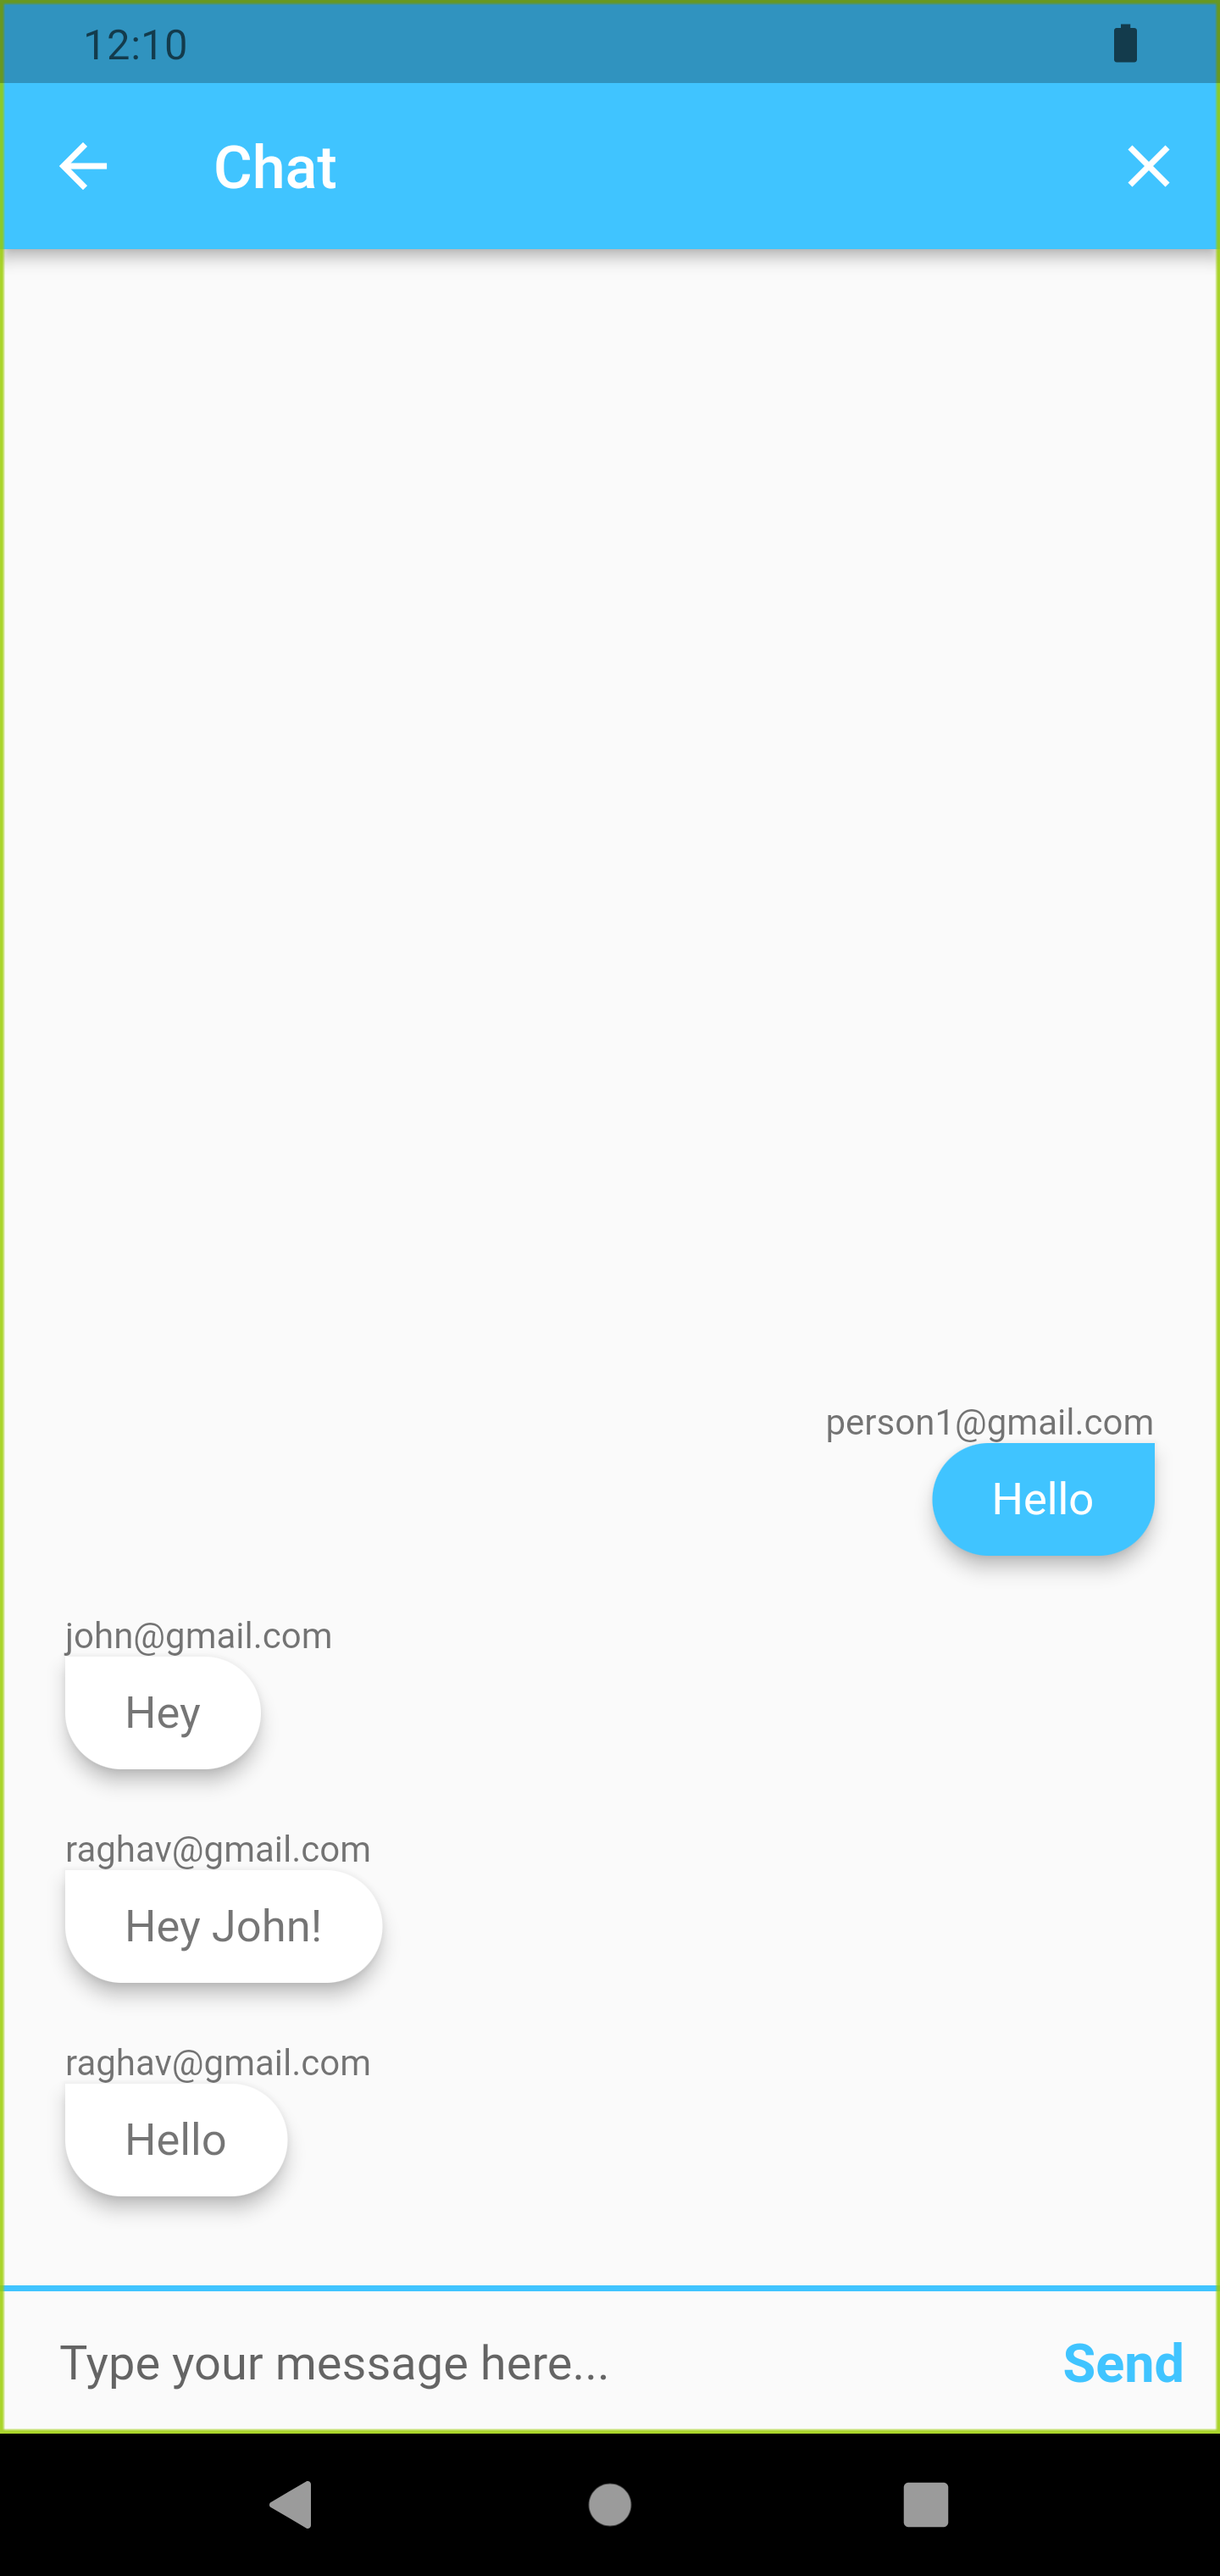
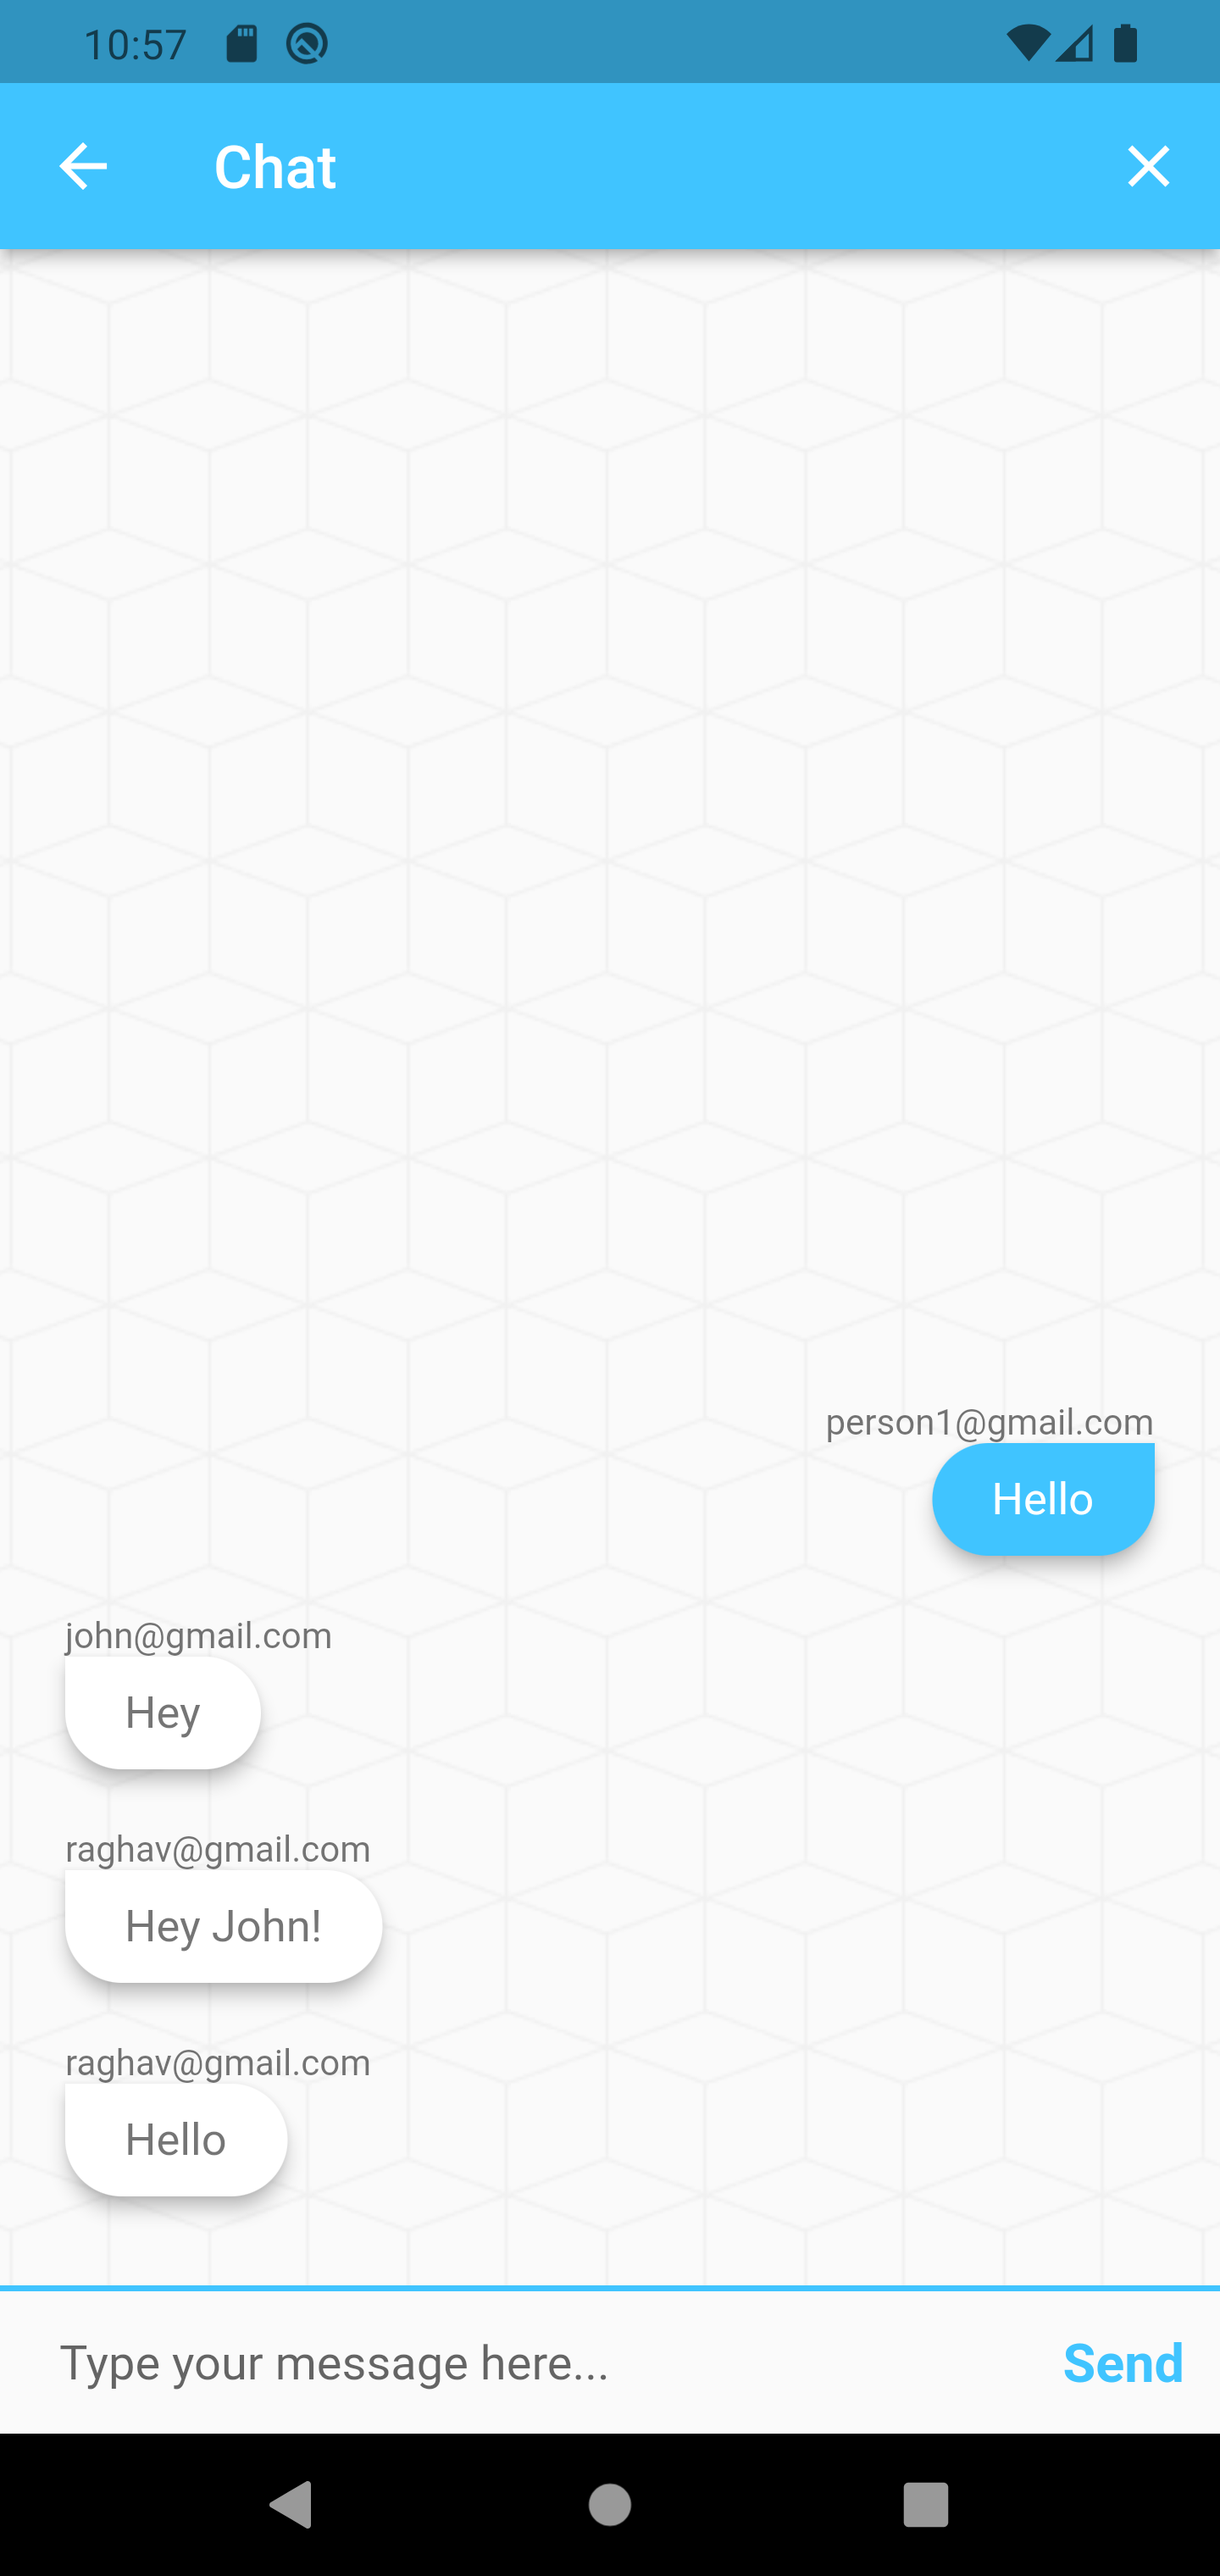
Added background image in Chat Screen

diff --git a/lib/screens/chat_screen.dart b/lib/screens/chat_screen.dart
@@ -130,10 +130,17 @@ class MessagesStream extends StatelessWidget {
           messageBubbles.add(messageBubble);
         }
         return Expanded(
-          child: ListView(
-            reverse: true,
-            children: messageBubbles,
-            padding: EdgeInsets.symmetric(horizontal: 12, vertical: 20),
+          child: Container(
+            decoration: BoxDecoration(
+              image: DecorationImage(
+                  image: AssetImage("assets/images/cubes.png"),
+                  repeat: ImageRepeat.repeat),
+            ),
+            child: ListView(
+              reverse: true,
+              children: messageBubbles,
+              padding: EdgeInsets.symmetric(horizontal: 12, vertical: 20),
+            ),
           ),
         );
       },
